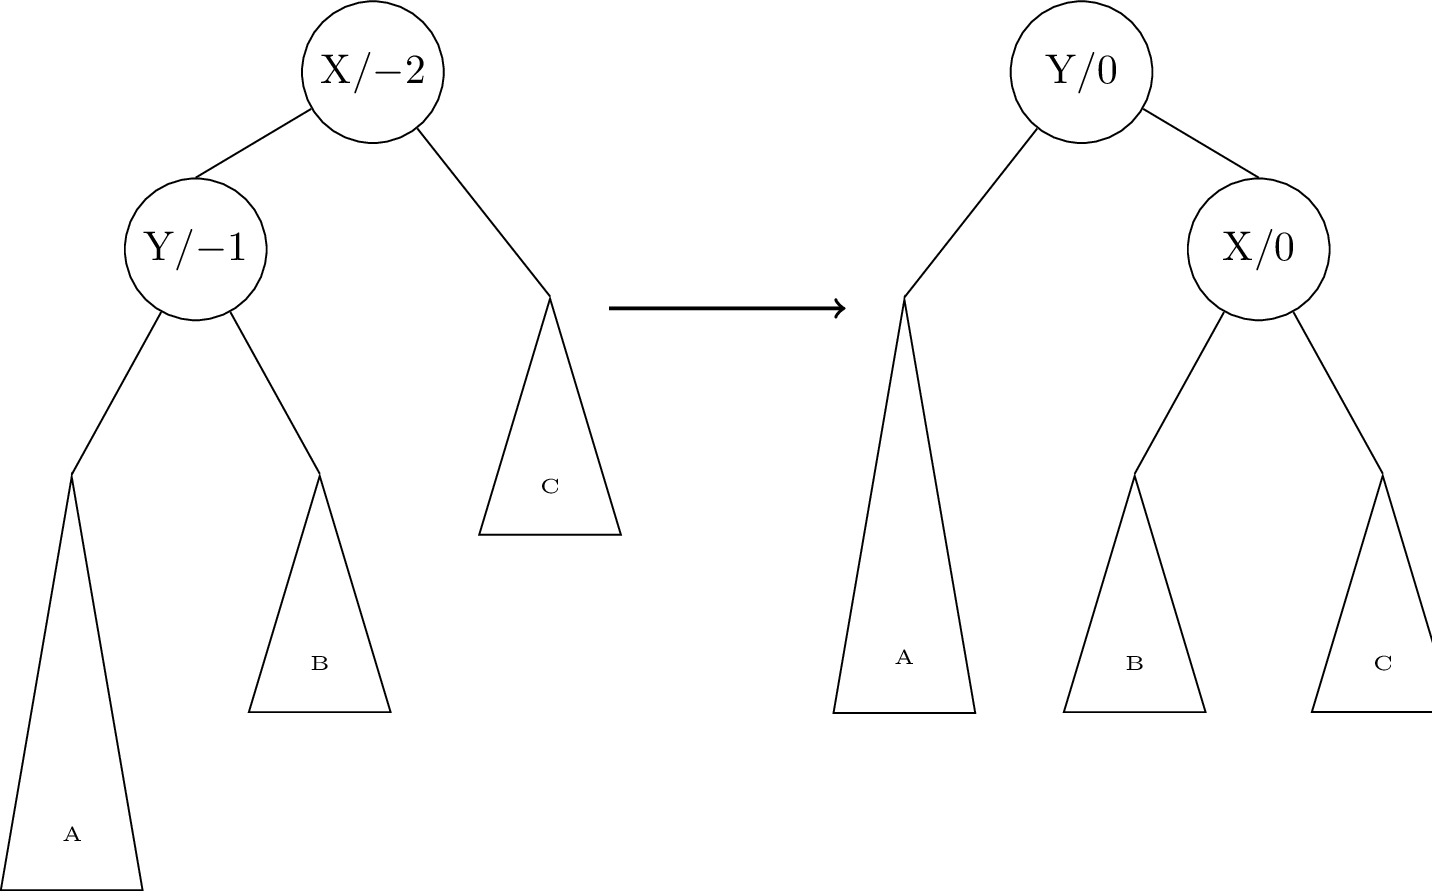
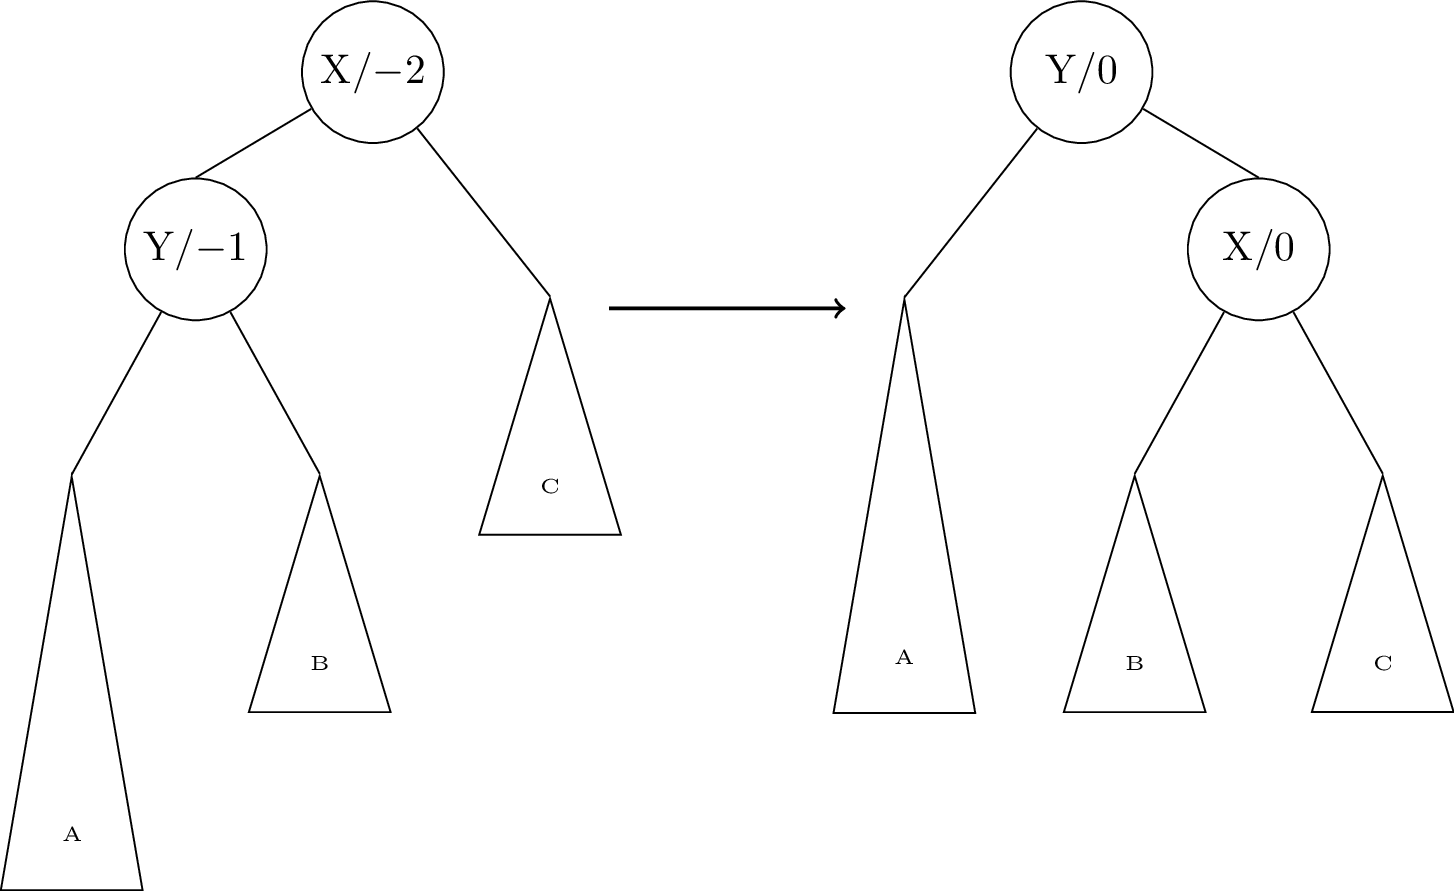
fixing tikz standalone

diff --git a/images/avl2.tex b/images/avl2.tex
@@ -1,4 +1,4 @@
-\documentclass[preview]{standalone}
+\documentclass[tikz]{standalone}
 
 
 \usepackage{tikz}
@@ -6,8 +6,6 @@
 
 \begin{document}
 
-\begin{figure}[h!]
-    
 \begin{tikzpicture}[
     inner/.style={circle,draw,minimum width=12mm,inner sep=1pt},
     leaf/.style={isosceles triangle,draw,shape border rotate=90,isosceles triangle stretches=true, minimum height=20mm,minimum width=12mm,inner sep=0,yshift={-20mm},font=\tiny},
@@ -36,5 +34,5 @@
         child {node[leaf] {C}}
         child {node[large leaf] {D}}};
 \end{tikzpicture}
-\end{figure}
+
 \end{document}

diff --git a/images/avl1.tex b/images/avl1.tex
@@ -1,11 +1,10 @@
-\documentclass[preview]{standalone}
-
+\documentclass[tikz]{standalone}
 
 \usepackage{tikz}
+
 \usetikzlibrary{arrows, automata, topaths, calc, shapes.geometric}
 
 \begin{document}
-\begin{figure}[h!]
 
 \begin{tikzpicture}[
     inner/.style={circle,draw,minimum width=12mm,inner sep=1pt},
@@ -31,6 +30,5 @@
         child {node[leaf] {B}}
         child {node[leaf] {C}}};
 \end{tikzpicture}
-\end{figure}
 
 \end{document}
